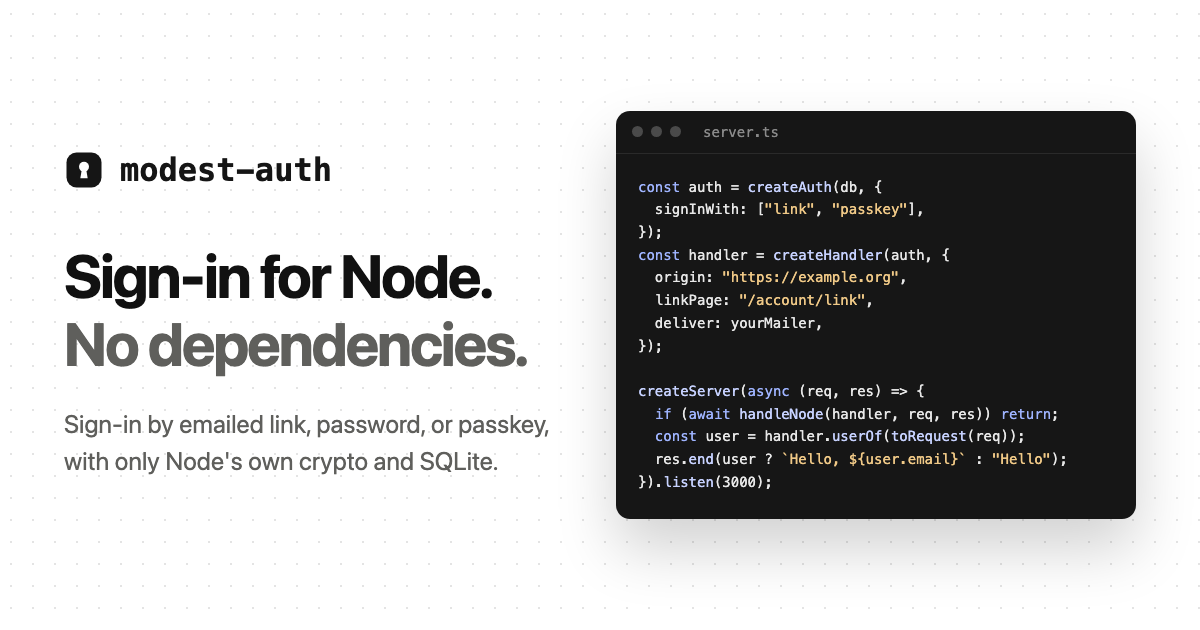
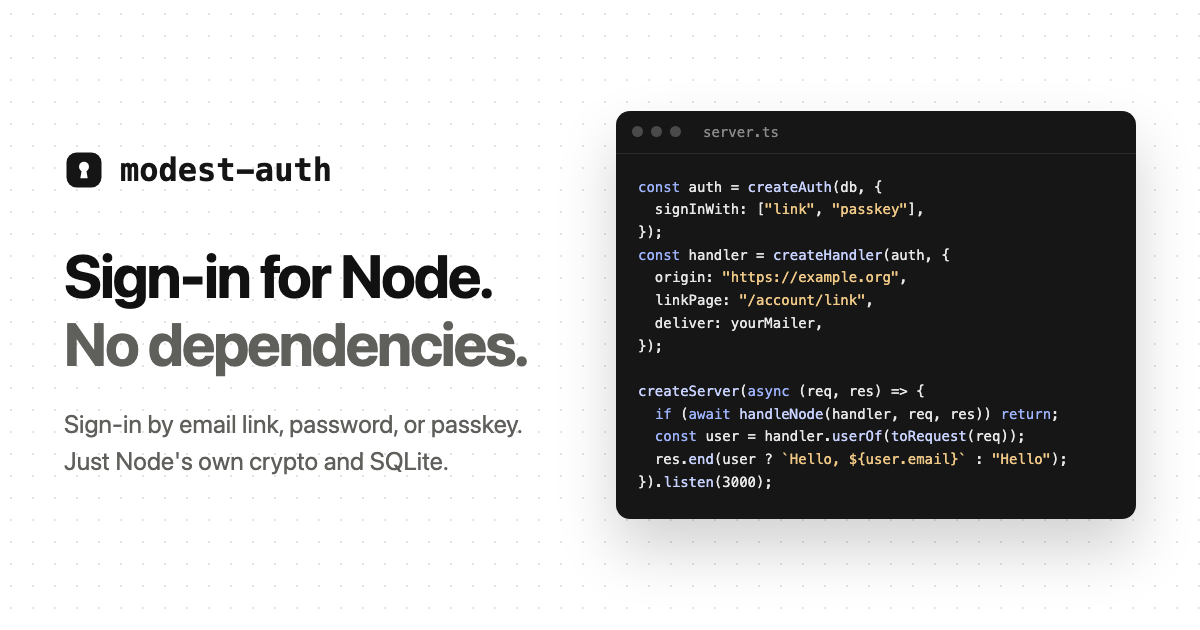
Plainer lead copy; two test alerts fixed; a direct link to report a vulnerability
The homepage lead, description, and share image say it in fewer words: sign-in by email
link, password, or passkey, with sessions; just Node's own crypto and SQLite, and no
settings that weaken it.

Code scanning: a test built a pattern from the origin without escaping its dots, and
another picked characters with a biased modulo; both fixed. SECURITY.md links straight
to the private report form, which Scorecard looks for.

Changed region(s): [[0.0308, 0.6635, 0.4625, 0.754]]

diff --git a/site/index.html b/site/index.html
@@ -6,7 +6,7 @@
     <meta http-equiv="Content-Security-Policy" content="default-src 'none'; style-src 'self'; img-src 'self'; base-uri 'none'; form-action 'none'" />
     <meta name="referrer" content="no-referrer" />
     <title>modest-auth: sign-in for Node.js, by link, password, or passkey</title>
-    <meta name="description" content="Sign-in for Node.js by emailed link, password, or passkey, with sessions. No dependencies, and no options that turn its protections off." />
+    <meta name="description" content="Sign-in for Node.js by email link, password, or passkey, with sessions. No dependencies, and no settings that weaken it." />
     <link rel="canonical" href="https://modest-auth.com/" />
     <link rel="icon" href="assets/favicon.svg" type="image/svg+xml" />
     <link rel="icon" href="assets/favicon-192.png" sizes="192x192" type="image/png" />
@@ -17,13 +17,13 @@
     <meta property="og:locale" content="en_GB" />
     <meta property="og:url" content="https://modest-auth.com/" />
     <meta property="og:title" content="modest-auth: sign-in for Node.js, by link, password, or passkey" />
-    <meta property="og:description" content="Sign-in for Node.js by emailed link, password, or passkey, with sessions. No dependencies, and no options that turn its protections off." />
+    <meta property="og:description" content="Sign-in for Node.js by email link, password, or passkey, with sessions. No dependencies, and no settings that weaken it." />
     <meta property="og:image" content="https://modest-auth.com/assets/og.png" />
     <meta property="og:image:width" content="1200" />
     <meta property="og:image:height" content="630" />
     <meta property="og:image:alt" content="modest-auth: Sign-in for Node. No dependencies. Beside it, the code that adds sign-in to a Node server." />
     <meta name="twitter:card" content="summary_large_image" />
-    <script type="application/ld+json">{"@context": "https://schema.org", "@type": "SoftwareSourceCode", "name": "modest-auth", "description": "Sign-in for Node.js by emailed link, password, or passkey, with sessions. No dependencies, and no options that turn its protections off.", "url": "https://modest-auth.com/", "codeRepository": "https://github.com/thisismodest/modest-auth", "programmingLanguage": "TypeScript", "runtimePlatform": "Node.js 24", "license": "https://opensource.org/license/mit", "author": {"@type": "Organization", "name": "Modest Industries Ltd"}}</script>
+    <script type="application/ld+json">{"@context": "https://schema.org", "@type": "SoftwareSourceCode", "name": "modest-auth", "description": "Sign-in for Node.js by email link, password, or passkey, with sessions. No dependencies, and no settings that weaken it.", "url": "https://modest-auth.com/", "codeRepository": "https://github.com/thisismodest/modest-auth", "programmingLanguage": "TypeScript", "runtimePlatform": "Node.js 24", "license": "https://opensource.org/license/mit", "author": {"@type": "Organization", "name": "Modest Industries Ltd"}}</script>
     <link rel="stylesheet" href="assets/vendor/modest-ui.min.css" />
     <link rel="stylesheet" href="assets/site.css" />
   </head>
@@ -50,8 +50,8 @@
               <span class="pill"><span class="dot amber" aria-hidden="true"></span>Early release, not yet audited</span>
               <h1>Sign-in for Node.<br /><span class="quiet">No dependencies.</span></h1>
               <p class="lead">
-                Sign-up, sign-in by emailed link (and by password or passkey, if you choose), and sessions, using only
-                Node's built-in crypto and SQLite. There are no options that turn its protections off.
+                Sign-in by email link, password, or passkey, with sessions. Just Node's own crypto and
+                SQLite, and no settings that weaken it.
               </p>
               <div class="actions">
                 <a class="mdst-button mdst-button--solid" href="docs.html">Read the docs</a>

diff --git a/test/scenarios/passwords.test.ts b/test/scenarios/passwords.test.ts
@@ -1,7 +1,7 @@
 // Scenarios 40 to 45 of docs/scenarios.md: the rules for new passwords, and the breached-password check.
 
 import assert from "node:assert/strict";
-import { randomBytes } from "node:crypto";
+import { randomBytes, randomInt } from "node:crypto";
 import { after, before, test } from "node:test";
 import { sha1 } from "../helpers.ts";
 import { askForLink, freshEmail, freshPassword, type Harness, isRefusal, signUp, startHarness, unlessBusy, wait, whoIs } from "./harness.ts";
@@ -24,7 +24,7 @@ before(async () => {
 after(() => h.close());
 
 /** Characters chosen at random out of `alphabet`, as code points. */
-const randomFrom = (alphabet: string[], length: number) => Array.from({ length }, () => alphabet[(randomBytes(1)[0] as number) % alphabet.length]).join("");
+const randomFrom = (alphabet: string[], length: number) => Array.from({ length }, () => alphabet[randomInt(alphabet.length)]).join("");
 const ascii = [..."abcdefghijkmnpqrstuvwxyzABCDEFGHJKLMNPQRSTUVWXYZ23456789-_"];
 const emoji = Array.from({ length: 80 }, (_, i) => String.fromCodePoint(0x1f600 + i));
 

diff --git a/src/handler.test.ts b/src/handler.test.ts
@@ -101,7 +101,8 @@ const setup = (more: { name?: string; signInWith?: ("password" | "link" | "passk
   const linkTo = async (to: string, kind: "password" | "sign-in" | "email" | "undo") => {
     await afterwards();
     const text = emails.findLast((email) => email.to === to)?.text ?? "";
-    const token = new RegExp(`^${ORIGIN}${EMAIL.linkPage}#${kind}=([\\w-]{43})$`, "m").exec(text)?.[1];
+    const prefix = `${ORIGIN}${EMAIL.linkPage}#${kind}=`.replace(/[.*+?^${}()|[\]\\]/g, "\\$&");
+    const token = new RegExp(`^${prefix}([\\w-]{43})$`, "m").exec(text)?.[1];
     assert.ok(token, `a ${kind} link was emailed to ${to}`);
     return token;
   };

diff --git a/scripts/og-image.html b/scripts/og-image.html
@@ -27,7 +27,7 @@
   <div class="left">
     <div class="brand"><img src="../site/assets/favicon.svg" alt="">modest-auth</div>
     <h1>Sign-in for Node.<br><span>No dependencies.</span></h1>
-    <p>Sign-in by emailed link, password, or passkey, with only Node's own crypto and SQLite.</p>
+    <p>Sign-in by email link, password, or passkey.<br>Just Node's own crypto and SQLite.</p>
   </div>
   <div class="window">
     <div class="bar"><i></i><i></i><i></i><span>server.ts</span></div>

diff --git a/SECURITY.md b/SECURITY.md
@@ -5,9 +5,10 @@ most useful contribution there is.
 
 ## Reporting a vulnerability
 
-**Please don't describe it in a public issue.** Report it privately through GitHub:
-the repository's **Security** tab → **Report a vulnerability**. Include what you found,
-how to reproduce it, and what an attacker could do with it.
+**Please don't describe it in a public issue.** Report it privately through GitHub, at
+<https://github.com/thisismodest/modest-auth/security/advisories/new> (the repository's
+**Security** tab → **Report a vulnerability**). Include what you found, how to reproduce
+it, and what an attacker could do with it.
 
 If that isn't offered, open an issue that says only that you have a security report
 (no details), and the maintainer will arrange a private way to receive it.
